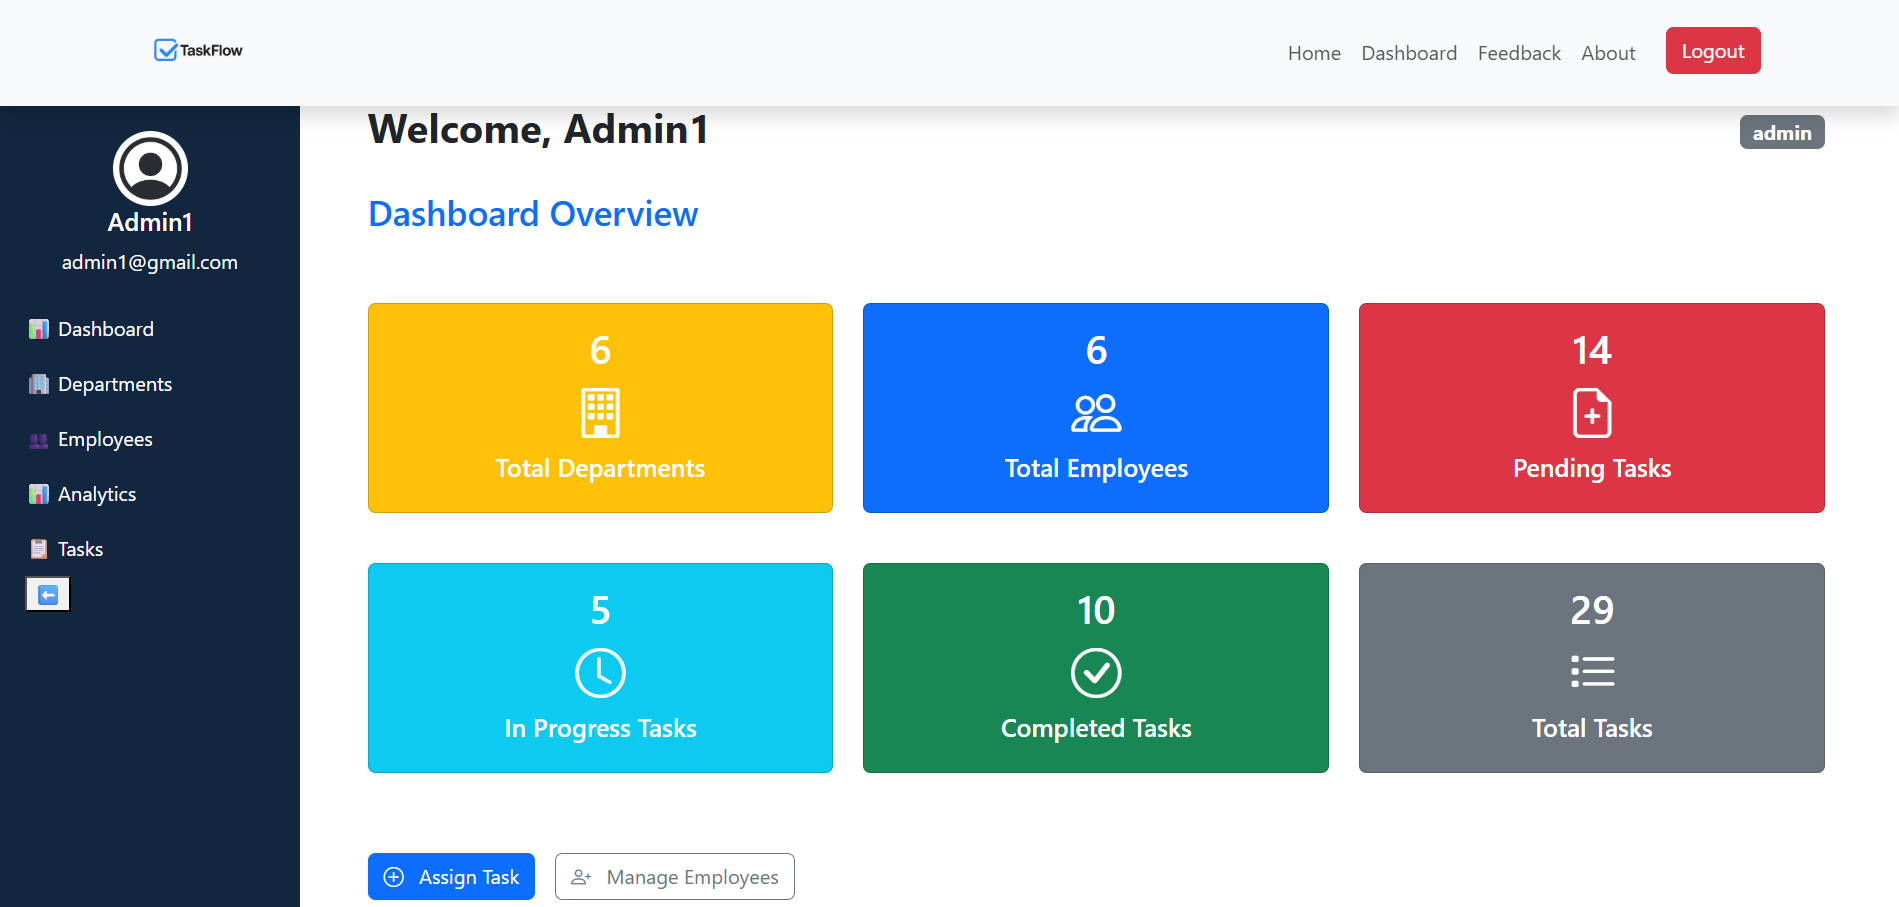
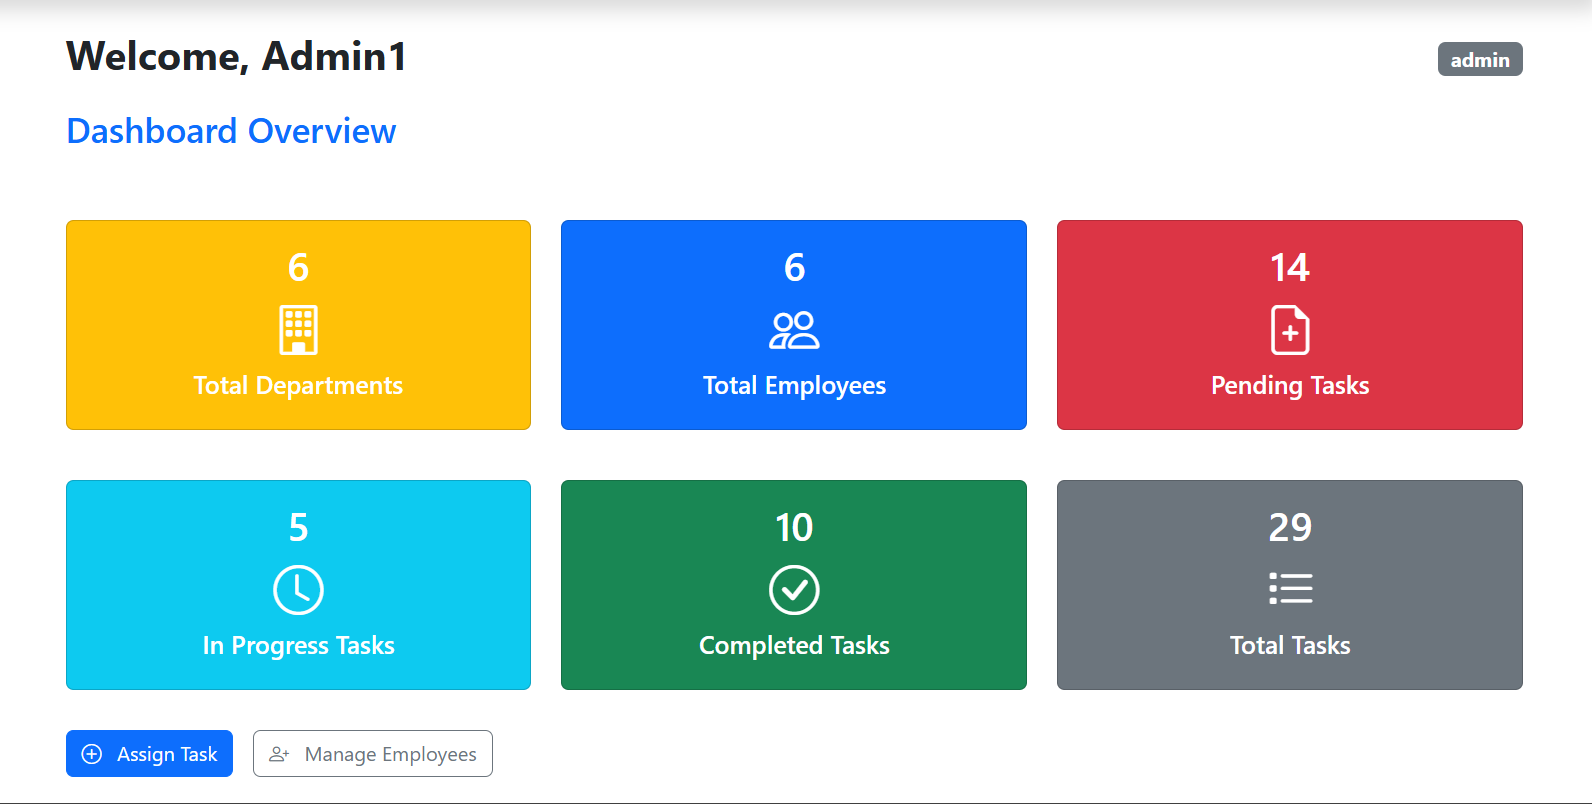
updated homePage design

diff --git a/client/src/components/home.jsx b/client/src/components/home.jsx
@@ -1,13 +1,25 @@
-import React, { useContext, useState, useEffect } from "react";  
+import React, { useContext, useState, useEffect } from "react";   
 import { AuthContext } from "./authContext";
 import { Link } from "react-router-dom";
+import { motion, AnimatePresence } from "framer-motion";
 
 const Home = () => {
   const { user } = useContext(AuthContext);
-  const [animateHero, setAnimateHero] = useState(false);
+  const [currentImage, setCurrentImage] = useState(0);
+
+  const heroImages = [
+    "/adminDashboard.png",
+    "/completedTask.png",
+    "/taskDetail.png",
+     "/newTaskAssignment.png",
+     "/analytics.png"
+  ];
 
   useEffect(() => {
-    setAnimateHero(true); // trigger animation on mount
+    const interval = setInterval(() => {
+      setCurrentImage((prev) => (prev + 1) % heroImages.length);
+    }, 4000); // change image every 4 seconds
+    return () => clearInterval(interval);
   }, []);
 
   const getStartedLink = !user
@@ -27,12 +39,11 @@ const Home = () => {
           minHeight: "90vh",
           background: "linear-gradient(135deg, #e3f2fd 0%, #ffffff 100%)",
           padding: "3rem",
-          opacity: animateHero ? 1 : 0,
-          transform: animateHero ? "translateY(0)" : "translateY(20px)",
-          transition: "opacity 1s ease, transform 1s ease",
+          position: "relative",
+          overflow: "hidden",
         }}
       >
-        <div className="row align-items-center">
+        <div className="row align-items-center w-100">
           {/* Left side - text */}
           <div className="col-md-6 text-center text-md-start">
             <h1 className="display-3 fw-bold text-primary mb-3">
@@ -45,13 +56,7 @@ const Home = () => {
             <Link
               to={getStartedLink}
               className="btn btn-primary btn-lg px-5 py-3 me-3"
-              style={{
-                borderRadius: "50px",
-                transition: "all 0.3s ease",
-                fontWeight: "600",
-              }}
-              onMouseOver={(e) => (e.currentTarget.style.transform = "scale(1.05)")}
-              onMouseOut={(e) => (e.currentTarget.style.transform = "scale(1)")}
+              style={{ borderRadius: "50px", fontWeight: "600" }}
             >
               {buttonText}
             </Link>
@@ -64,67 +69,28 @@ const Home = () => {
             </Link>
           </div>
 
-          {/* Right side - illustration */}
-          <div className="col-md-6 mt-5 mt-md-0 text-center">
-            <img
-              src="/adminDashboard2.png"
-              alt="Task management illustration"
-              className="img-fluid"
-              style={{
-                height: "50vh",        // occupy 50% of viewport height
-                width: "100%",          // fill container width
-                objectFit: "contain",   // maintain aspect ratio
-                transition: "transform 0.5s ease, opacity 1s ease",
-                transform: animateHero ? "scale(1)" : "scale(0.95)",
-                opacity: animateHero ? 1 : 0,
-              }}
-              onMouseOver={(e) => (e.currentTarget.style.transform = "scale(1.05)")}
-              onMouseOut={(e) => (e.currentTarget.style.transform = "scale(1)")}
-            />
-          </div>
-        </div>
-      </div>
+          {/* Right side - sliding hero image */}
+          <div className="col-md-6 mt-5 mt-md-0" style={{ height: "50vh", position: "relative" }}>
+            <AnimatePresence>
+              <motion.img
+                key={currentImage}
+                src={heroImages[currentImage]}
+                alt="Task management illustration"
+                style={{
+                  width: "100%",
+                  height: "100%",
+                  objectFit: "cover",
+                  position: "absolute",
+                  top: 0,
+                  left: 0,
+                }}
+                initial={{ y: "100%", opacity: 0 }}   // new comes from bottom
+                animate={{ y: "0%", opacity: 1 }}     // fills in to center
+                exit={{ y: "-100%", opacity: 0 }}     // old leaves up
+                transition={{ duration: 1, ease: "easeInOut" }}
+              />
+            </AnimatePresence>
 
-      {/* Feature Highlights Section */}
-      <div className="container py-5">
-        <h2 className="text-center fw-bold mb-5 text-dark">
-          Why Choose Our Task Management App?
-        </h2>
-        <div className="row g-4">
-          <div className="col-md-4">
-            <div className="card shadow border-0 h-100 text-center p-4">
-              <div className="mb-3">
-                <span style={{ fontSize: "3rem" }}>✅</span>
-              </div>
-              <h5 className="fw-bold">Track Progress</h5>
-              <p className="text-muted">
-                Monitor tasks in real-time and never miss a deadline again.
-              </p>
-            </div>
-          </div>
-
-          <div className="col-md-4">
-            <div className="card shadow border-0 h-100 text-center p-4">
-              <div className="mb-3">
-                <span style={{ fontSize: "3rem" }}>👥</span>
-              </div>
-              <h5 className="fw-bold">Collaborate Seamlessly</h5>
-              <p className="text-muted">
-                Assign tasks, share files, and work together efficiently.
-              </p>
-            </div>
-          </div>
-
-          <div className="col-md-4">
-            <div className="card shadow border-0 h-100 text-center p-4">
-              <div className="mb-3">
-                <span style={{ fontSize: "3rem" }}>📊</span>
-              </div>
-              <h5 className="fw-bold">Stay Organized</h5>
-              <p className="text-muted">
-                Keep everything in one place with structured task management.
-              </p>
-            </div>
           </div>
         </div>
       </div>

diff --git a/client/src/pages/employeeDashboard.jsx b/client/src/pages/employeeDashboard.jsx
@@ -1,29 +1,68 @@
-import React from "react";
+import React, { useContext } from "react"; 
 import Sidebar from "../components/sidebar";
 import TaskCard from "../components/taskCard";
-import { useContext } from "react";
 import { AuthContext } from "../components/authContext";
 import useFetchDashboardStats from "../helper/useFetchDashboardStats";
 
 const EmployeeDashboard = () => {
-  //const user = { name: "Rahul Singh", email: "rahul12@gmail.com", role: "employee" };
-    const { user } = useContext(AuthContext);
-    const { stats, loading } = useFetchDashboardStats();
-    if(!stats){
-      return <div>Loading...</div>;
-    }
-    
+  const { user } = useContext(AuthContext);
+  const { stats, loading } = useFetchDashboardStats();
+
+  if (!stats) return <div>Loading...</div>;
+
   return (
-    <div className="dashboard-container">
-      <Sidebar/>
-      <div className="content">
-        <h2 className="text-center m-4 mb-8 fw-bold">Dashboard</h2>
-        <div className="row">
-          <TaskCard className="shadow-sm rounded-3 hover-card" title="New Tasks" count={stats.pendingTasks} color="danger" icon="bi-file-earmark-plus" route="/tasks/new" />
-          <TaskCard className="shadow-sm rounded-3 hover-card" title="In Progress Tasks" count={stats.inProgressTasks} color="warning" icon="bi-clock" route="/tasks/inprogress" />
-          <TaskCard className="shadow-sm rounded-3 hover-card" title="Completed Tasks" count={stats.completedTasks} color="success" icon="bi-check-circle" route="/tasks/completed" />
-          <TaskCard className="shadow-sm rounded-3 hover-card" title="All Tasks" count={stats.allTasks} color="primary" icon="bi-list-task" route="/tasks/all" />
-          <TaskCard className="shadow-sm rounded-3 hover-card" title="View tasks in Calender" count={1}  color="primary" icon="bi bi-calendar" route="/tasks/calender" />
+    <div className="dashboard-container d-flex">
+      <Sidebar />
+
+      <div className="content flex-grow-1 p-4" style={{ background: "#f5f7fa", minHeight: "100vh" }}>
+        {/* Welcome Heading */}
+        <div className="mb-4 text-center">
+          <h2 className="fw-bold mb-2">Welcome, {user.name}!</h2>
+          <p className="text-muted">Here's a quick overview of your tasks</p>
+        </div>
+
+        {/* Task Cards Grid */}
+        <div className="row g-4">
+          <TaskCard
+            className="hover-card"
+            title="New Tasks"
+            count={stats.pendingTasks}
+            color="danger"
+            icon="bi-file-earmark-plus"
+            route="/tasks/new"
+          />
+          <TaskCard
+            className="hover-card"
+            title="In Progress Tasks"
+            count={stats.inProgressTasks}
+            color="warning"
+            icon="bi-clock"
+            route="/tasks/inprogress"
+          />
+          <TaskCard
+            className="hover-card"
+            title="Completed Tasks"
+            count={stats.completedTasks}
+            color="success"
+            icon="bi-check-circle"
+            route="/tasks/completed"
+          />
+          <TaskCard
+            className="hover-card"
+            title="All Tasks"
+            count={stats.allTasks}
+            color="primary"
+            icon="bi-list-task"
+            route="/tasks/all"
+          />
+          <TaskCard
+            className="hover-card"
+            title="View tasks in Calendar"
+            count={1}
+            color="info"
+            icon="bi-calendar"
+            route="/tasks/calender"
+          />
         </div>
       </div>
     </div>

diff --git a/client/src/pages/adminDashboard.jsx b/client/src/pages/adminDashboard.jsx
@@ -12,7 +12,7 @@ const AdminDashboard = () => {
 
   if (!stats) {
     return (
-      <div className="d-flex justify-content-center align-items-center" style={{ height: "100vh" }}>
+      <div className="d-flex justify-content-center align-items-center  " style={{ height: "100vh" }}>
         <div className="spinner-border text-primary" role="status">
           <span className="visually-hidden">Loading...</span>
         </div>
@@ -26,7 +26,7 @@ const AdminDashboard = () => {
       <div className="content p-4">
         {/* Greeting */}
         <div className="d-flex justify-content-between align-items-center mb-3">
-          <h2 className="fw-bold">Welcome, {user?.name || "Admin"}</h2>
+          <h2 className="fw-bold text-center">Welcome, {user?.name || "Admin"}</h2>
           <span className="badge bg-secondary fs-6">{user?.role}</span>
         </div>
 

diff --git a/client/src/index.css b/client/src/index.css
@@ -1,6 +1,6 @@
 /* Sidebar container */
 .sidebar {
-  background-color: #2C3E50; /* softer navy */
+  background-color: #113d68; /* softer navy */
   color: white;
   height: 100vh;
   padding: 20px;
@@ -84,4 +84,16 @@
 .collapse-btn:hover {
   background-color: rgba(255, 255, 255, 0.2);
   transform: scale(1.05);
+}
+
+@media (max-width: 768px) {
+  .hero-image-container {
+    height: 30vh !important; /* smaller height on tablets/phones */
+  }
+}
+
+@media (max-width: 480px) {
+  .hero-image-container {
+    height: 25vh !important; /* compact height for very small screens */
+  }
 }

diff --git a/client/index.html b/client/index.html
@@ -2,7 +2,7 @@
 <html lang="en">
   <head>
     <meta charset="UTF-8" />
-    <link rel="icon" type="image/svg+xml" href="" />
+    <link rel="icon" type="image/svg+xml" href="/taskflow logo.png" />
     <meta name="viewport" content="width=device-width, initial-scale=1.0" />
     <title>TaskFlow</title>
   </head>
